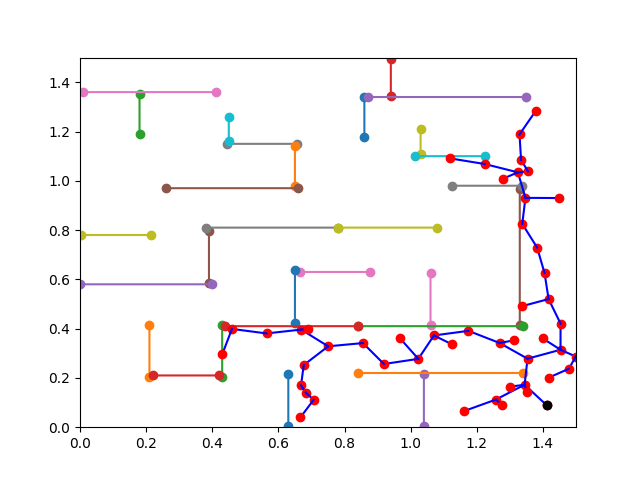
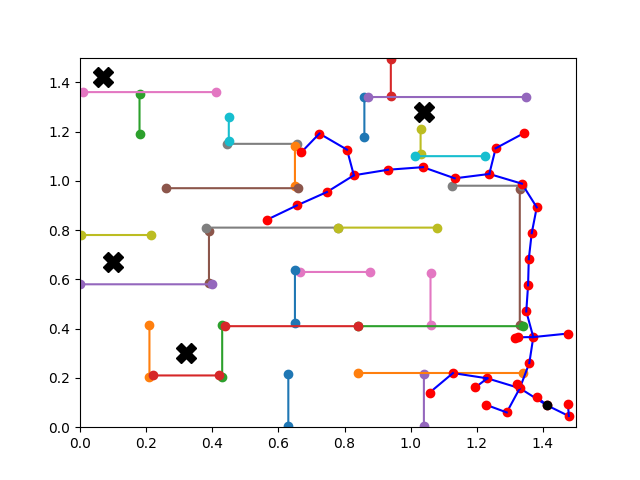
added targets to png map

diff --git a/controllers/controller_base/controller_base.py b/controllers/controller_base/controller_base.py
@@ -22,11 +22,12 @@ robot = supervisor.supervisor
 # get the time step of the current world.
 timestep = int(robot.getBasicTimeStep())
 
-#positions of obstacles 
-rubber_duck1 = (0.07, 0.01, 0.95)
-rubber_duck2 = (0.79, 0.01, -0.03)
-rubber_duck3 = (-0.150001, 0.01, 0.58)
-soda_can = (-0.18, 0.06, -0.17)
+#positions of obstacles x y 
+rubber_duck1 = [0.07, 0.95] 
+rubber_duck2 = [0.79, -0.03]
+rubber_duck3 = [-0.150001, 0.58]
+soda_can = [-0.18, -0.17]
+targets = [rubber_duck1, rubber_duck2, rubber_duck3, soda_can]
 
 # Robot Pose Values
 pose_x = 0
@@ -120,16 +121,18 @@ def get_wheel_speeds(target_pose):
     return phi_l_pct, phi_r_pct
     
 
-def visualize_2D_graph(state_bounds, line_segments, nodes, goal_point=None, filename=None):
+def visualize_2D_graph(state_bounds, line_segments, nodes, targets, goal_point=None, filename=None):
     fig = plt.figure()
     plt.xlim(state_bounds[0,0], state_bounds[0,1])
     plt.ylim(state_bounds[1,0], state_bounds[1,1])
     t = 1.5
-
+    for targ in targets:
+        x,y = targ[0]+0.25,targ[1]+0.25
+        plt.plot(x, 1.5-y, 'kX', markersize=15)
+        
     for seg in line_segments:
         [x1,y1], [x2,y2] = seg
         plt.plot([x1,x2], [t-y1,t-y2], marker = 'o')
-
     goal_node = None
     for node in nodes:
         if node.parent is not None:
@@ -242,22 +245,23 @@ def buildRRT(state_bounds, obstacles, state_is_valid, starting_point, goal_point
     return node_list
 
 def main():
-    global OBSTACLES, LINE_SEGMENTS
+    global OBSTACLES, LINE_SEGMENTS, targets
     # You should insert a getDevice-like function in order to get the
     # instance of a device of the robot. Something like:
     #  motor = robot.getMotor('motorname')
     #  ds = robot.getDistanceSensor('dsname')
     #  ds.enable(timestep)2
-    
     K = 150 # adjustable
     start_pose = supervisor.supervisor_get_robot_pose()[:2]
     start_pose+=.25
 
     obsTransform(OBSTACLES)
     nodes = buildRRT(MAP_BOUNDS, OBSTACLES, state_is_valid, start_pose[:2], None, K, np.linalg.norm(MAP_BOUNDS/20.))
-    visualize_2D_graph(MAP_BOUNDS, LINE_SEGMENTS, nodes, None, 'rrt_maze_run.png')
+    print(targets)
+    visualize_2D_graph(MAP_BOUNDS, LINE_SEGMENTS, nodes,targets, None, 'rrt_maze_run.png')
+
     # pose_x, pose_y, pose_theta = start_pose
-    
+   
     # Main loop:
     # - perform simulation steps until Webots is stopping the controller
     while robot.step(timestep) != -1:
